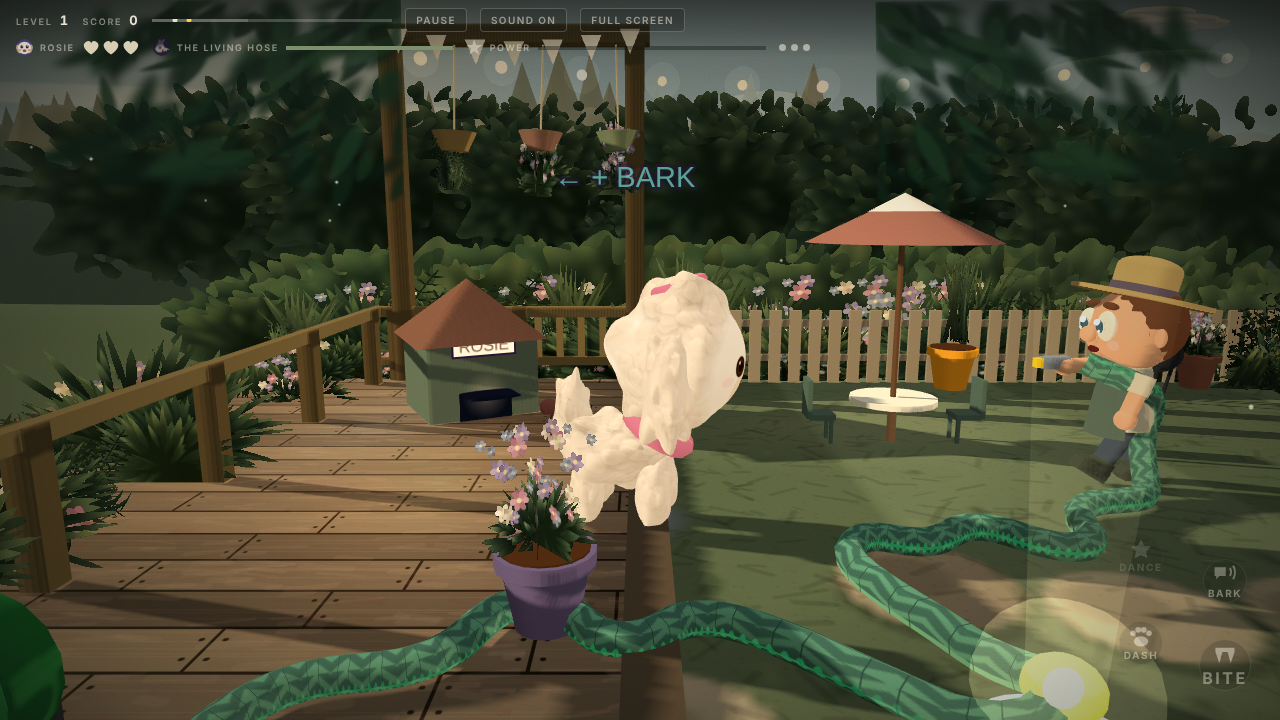
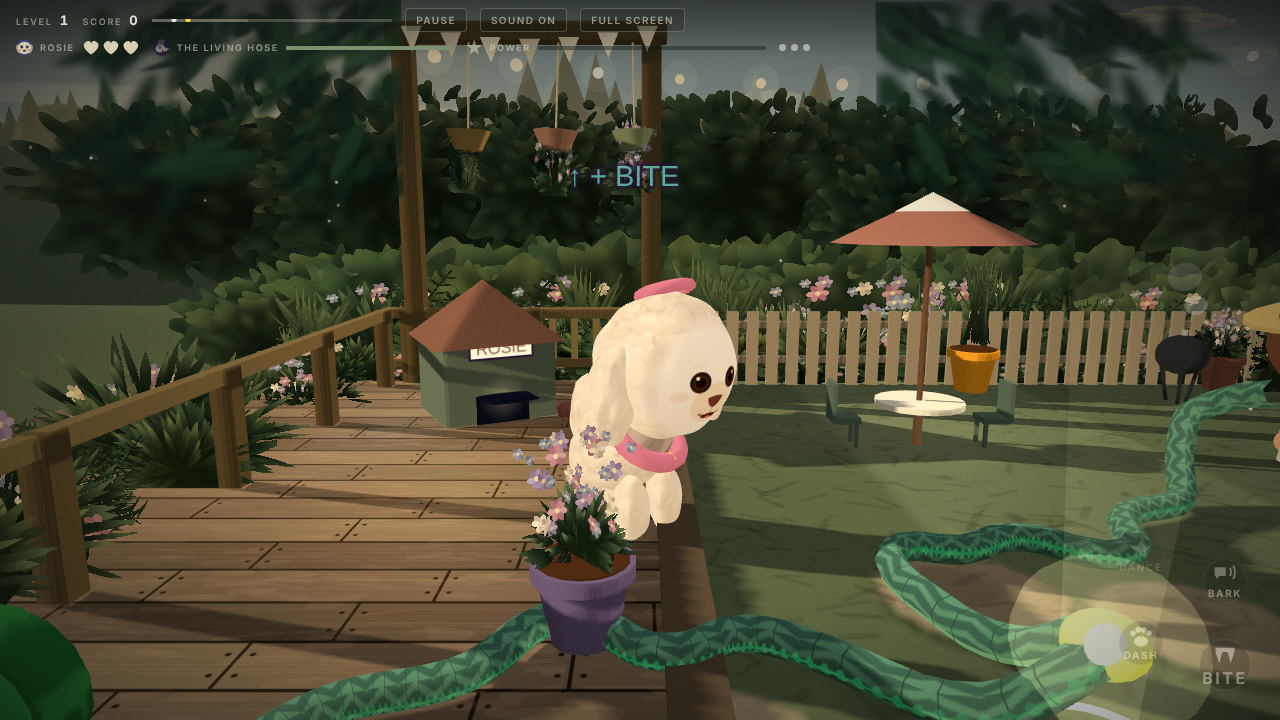
feat(art): halve the displacement field — she reads as a dog under fluff
The aimed lobes were right in placement but too deep: at full amplitude she
read as cauliflower, formless bulges rather than a dog. Since the curls are
carried by the coat texture now, the geometry only has to break the outline,
and one global FLUFF_K=.55 on the displacement field does that — tuned in one
place rather than across twelve per-lobe amplitudes.

Verified by screenshot, which is the only test that counts here: the
silhouette stays ragged, the curls read as curls, and the drawn face and
proportions are untouched. Best she has looked in ten passes.

Evidence: production/qa/evidence/c2d9-body.png
Design: design/art/cartoon-to-3d.md

Claude-Session: https://claude.ai/code/session_01JR8fsw3Uh5kViP8MJWMfnz

diff --git a/src/index.html b/src/index.html
@@ -1959,6 +1959,11 @@ function lobes(cnt,seed,w0,w1,a0,a1,skip){let sd=seed|0;
   if(skip&&Math.acos(Math.min(1,d[0]*skip[0]+d[1]*skip[1]+d[2]*skip[2]))<skip[3])continue;
   L.push([d[0],d[1],d[2],w,am,Math.cos(w)]);}
  return L;}
+/* One global scale on the whole displacement field. The aimed lobes were right in PLACEMENT but
+   too deep: at full amplitude she read as cauliflower -- formless bulges rather than a dog under
+   fluff. The curls are carried by the coat texture, so the geometry only has to break the outline,
+   which it does at about half. Tune here, not in the twelve per-lobe amplitudes. */
+const FLUFF_K=.55;
 function fluff(par,mat,R,sc,o){o=o||{};
  const sg=o.seg||[88,60],B=o.base||3,TU=o.tuft||0,ph0=o.ph||0,LB=o.lb||[],KP=o.keep;
  /* the displacement field, as a pure function of direction */
@@ -1970,7 +1975,7 @@ function fluff(par,mat,R,sc,o){o=o||{};
   if(TU)d+=TU*Math.max(0,Math.cos(th*2.3))*(.62+.38*Math.cos(3*ph+.4));
   if(KP){const a=Math.acos(Math.max(-1,Math.min(1,ux*KP[0]+uy*KP[1]+uz*KP[2])));
    let w=a<KP[3]?0:a>KP[4]?1:(a-KP[3])/(KP[4]-KP[3]);d*=w*w*(3-2*w);}
-  return d;};
+  return d*FLUFF_K;};
  const g=new THREE.SphereGeometry(R,sg[0],sg[1]),p=g.attributes.position,na=g.attributes.normal,N=p.count,v=new THREE.Vector3();
  /* Normals are ANALYTIC, not recomputed from the displaced triangles. For a radial surface
     f(u)*u the normal is f*u - df/ds1*t1 - df/ds2*t2, so two extra field samples per vertex give a
